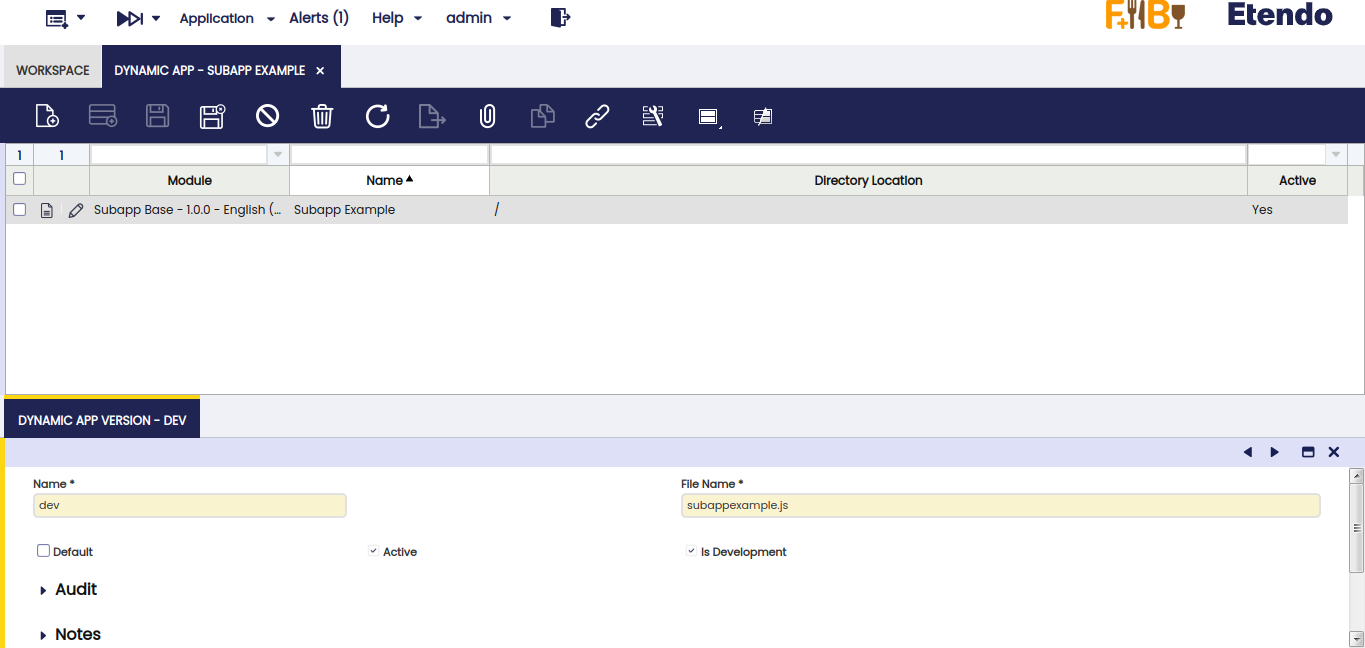
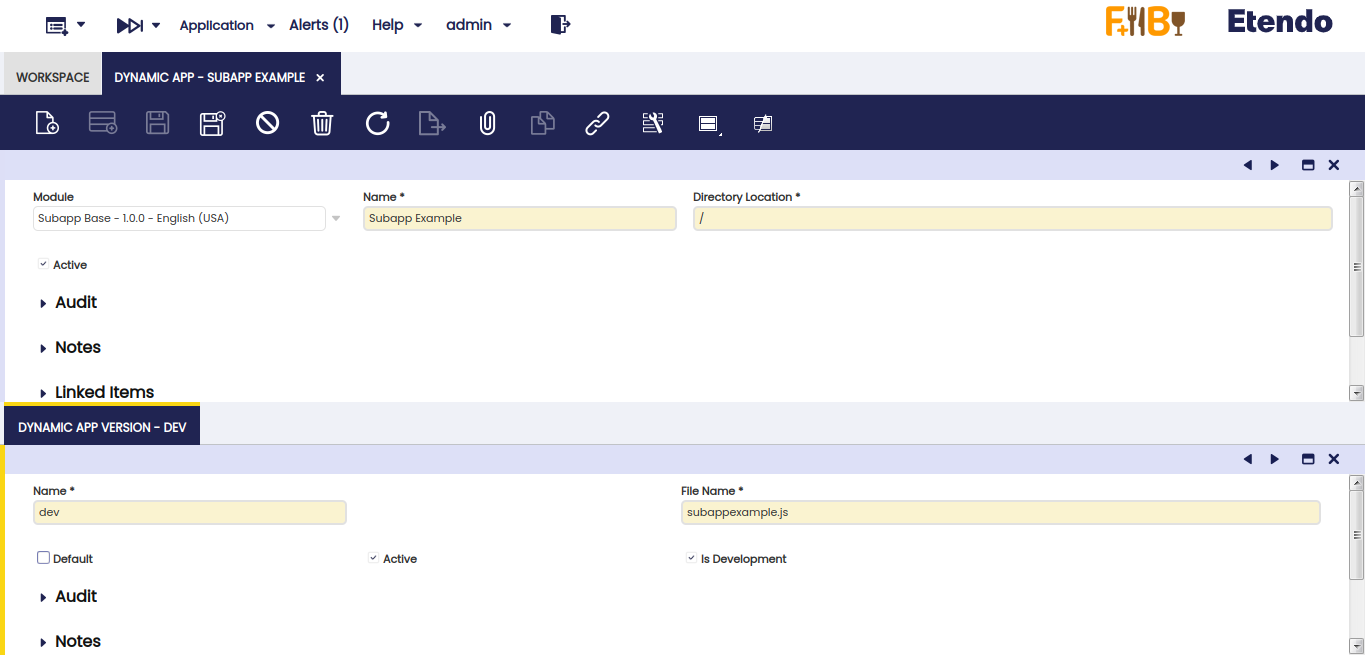
Feature EPL-1046: change images module, dynamic app & add tables

diff --git a/docs/developer-guide/etendo-mobile/tutorials/create-new-subapplication.md b/docs/developer-guide/etendo-mobile/tutorials/create-new-subapplication.md
@@ -5,26 +5,66 @@ This section provides a step-by-step guide on how to run a sub-application in de
 !!! info
     Before starting this tutorial requires Etendo, Etendo Mobile, Ngrok and Node.js in the local environment. For more information check the [Getting Started in the Etendo Mobile section](/developer-guide/etendo-mobile/getting-started/){target="_blank"}.
 
+## Create a new Etendo Classic module
+
+Once Loged in, go to the modules window, and create a new one as the image shows:
+
+| Variable                | Description                                                      | Example Value                          |
+| ----------------------- | ---------------------------------------------------------------- | ------------------                     |
+| `Java Package`          | Java Package                                                     | com.etendoerp.subapp.base              | 
+| `Name`                  | Module name                                                      | Subapp Base                            |
+| `Type`                  | Module type                                                      | Module                                 |
+| `Description`           | Description                                                      | An subapp example to develop into dynamic app                                      |
+| `Version`               | Version name                                                     | 1.0.0                                   |
+
+
+![create-module..png](/assets/developer-guide/etendo-mobile/create-new-subapplication/create-module.png)
+
+!!! Tip
+    - Notice that the name can be anything you want, but the type have to be setted as Module.
+    - The description field is free and also required.
+
+In this case we going to start from 1.0.0 version and set the DB prefix as ETAPP.
+
+After save all the configuration, you have to export it. Open a terminal in the root of your etendo classic and execute the following command:
+    ``` bash title="Terminal"
+    ./gradlew export.database
+    ```
+
+!!! warning "Important"
+    The output must be a "BUILD SUCCESSFUL" message.
+
+
 ## Fork the dummy application
 
-2. To start with it requires a fork of the dummy application [com.etendoerp.subapp.base](https://github.com/etendosoftware/com.etendoerp.subapp.base){target="_blank"} and clone it inside the modules folder in the Etendo environment.
+2. To start with it requires a fork of the dummy application [subapp](https://github.com/etendosoftware/com.etendoerp.subapp.base){target="_blank"} and clone it inside the modules folder in the Etendo environment.
     ``` bash title="Terminal"
-    git@github.com:etendosoftware/com.etendoerp.subapp.base.git
+    git clone git@github.com:etendosoftware/subapp.git
     ```
 
     ![modules.png](/assets/developer-guide/etendo-mobile/create-new-subapplication/modules.png)
 
-1. In a terminal in `modules/com.etendoerp.subapp.base/resources` to be able to install the depedencies declared in the package.json and for it the following command would be executed.
+1. In a terminal in `modules/com.etendoerp.subapp.base/subapp` to be able to install the depedencies declared in the package.json and for it the following command would be executed.
     Install the dependencies 
     ``` bash title="Terminal"
     yarn install 
     ```
 
 ## Dynamic app window
+This is a window in which dynamic applications can be configured to open from the Etendo Mobile application. To do this we create a record in this window we declare the module, the name of the application and the location of the building of our application.
 
-This is a window where dynamic applications can be configured to open from the Etendo Mobile application. Forking the dummy app will result in a base sub-application loaded by default in development mode, allowing the developer to use a development URL and not a productive one within Etendo Mobile. For more information check the [Dynamic App](/products/etendo-classic/user-guide/general-setup/application/#dynamic-app){target="_blank"}.
+After selecting this record in the DYNAMIC APP VERSION tab you should add a version name, the name of our built file and check the "is Development" checkbox to true, which will allow the developer to use a development URL and not a productive one inside Etendo Mobile. For more information check the [Dynamic App](/products/etendo-classic/user-guide/general-setup/application/#dynamic-app){target="_blank"}.
 
-| Variable                | Description                                                      | Default Value                          |
+| Variable                | Description                                                      | Example Value                          |
+| ----------------------- | ---------------------------------------------------------------- | ------------------                     |
+| `Module`                | Module name                                                      | Subapp Base - 1.0.0 - English (USA)    | 
+| `Name`                  | Sub-application Name                                             | Subapp Example                         |
+| `Dyrectory Location`    | Sub-application build location                                   | /                                      |
+| `Active`                | If active                                                        | true                                   |
+
+### Dynamic app version
+
+| Variable                | Description                                                      | Example Value                          |
 | ----------------------- | ---------------------------------------------------------------- | ------------------                     |
 | `Name`                  | Version name                                                     | dev                                    | 
 | `File Name`             | Bundle name                                                      | subappexample.js                       |
@@ -36,10 +76,10 @@ This is a window where dynamic applications can be configured to open from the E
 Permissions must be given to the Admin role in order to view the application within the Etendo Mobile application.
 From the Role window, look for the name Admin and in the "DYNAMIC APPS - Subapp" tab, add the example record Subapp Example with dev version.
 
-| Variable                | Description                                                      | Default Value                          |
+| Variable                | Description                                                      | Example Value                          |
 | ----------------------- | ---------------------------------------------------------------- | ------------------                     |
 | `Organization`          | Name of organization                                             | *                                      | 
-| `App`                   | Name of application                                              | Subapp Example                         |
+| `App`                   | Name of Sub-application                                          | Subapp Example                         |
 | `Version`               | Version number                                                   | dev                                    |
 | `Active`                | If active                                                        | true                                   |
 
@@ -197,7 +237,7 @@ export default {
   output: [
     {
     //Path where the application build will be generated. 
-      file: '../web/com.etendorx.subapp.base/subappexample.js', 
+      file: '../web/com.etendoerp.subapp.base/subappexample.js', 
       format: 'cjs',
       exports: 'auto',
       strict: false,
@@ -219,7 +259,7 @@ In the package.json it is defined where the local server will be raised with [Ht
     "test": "jest",
     "lint": "eslint .",
     "build": "rollup -c",
-    "dev": "http-server -p 3000 ../web/com.etendorx.subapp.base/"
+    "dev": "http-server -p 3000 ../web/com.etendorx.subapp.base/subapp"
   },
 ```
 
